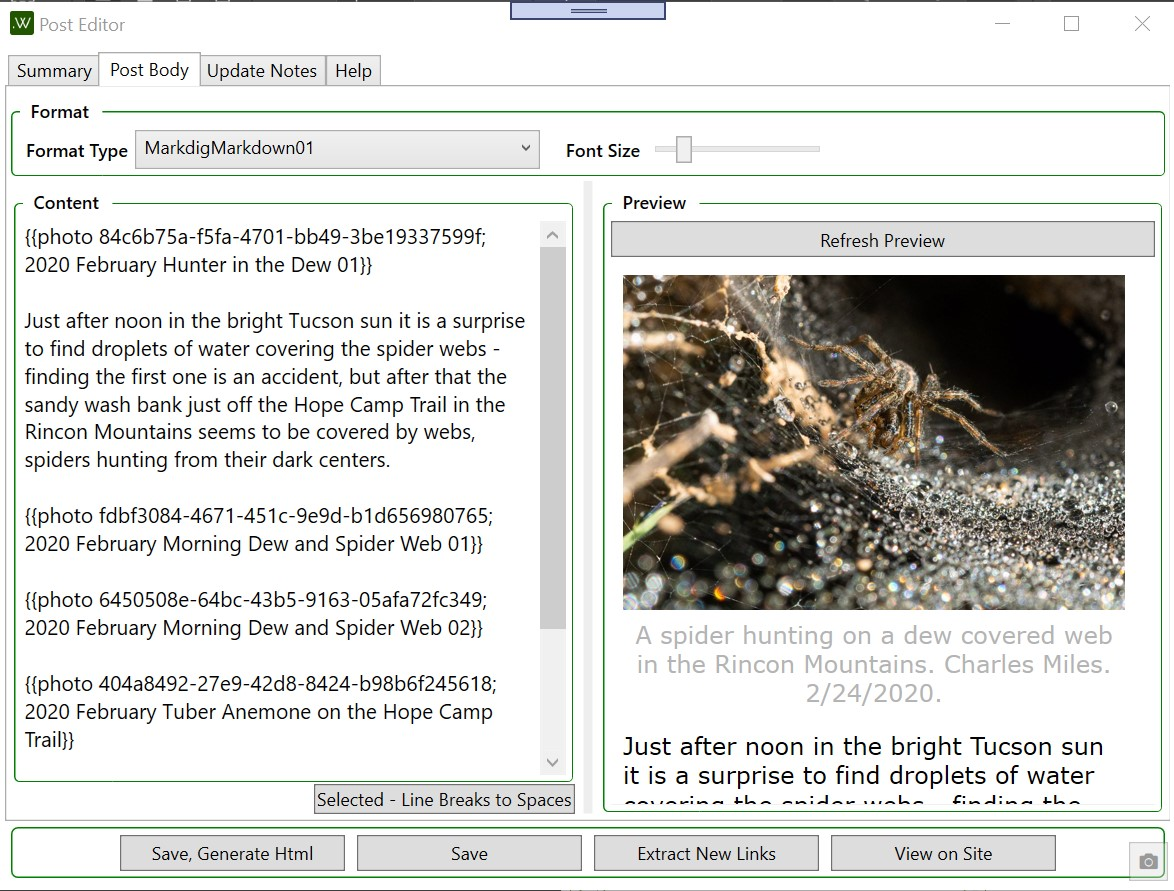
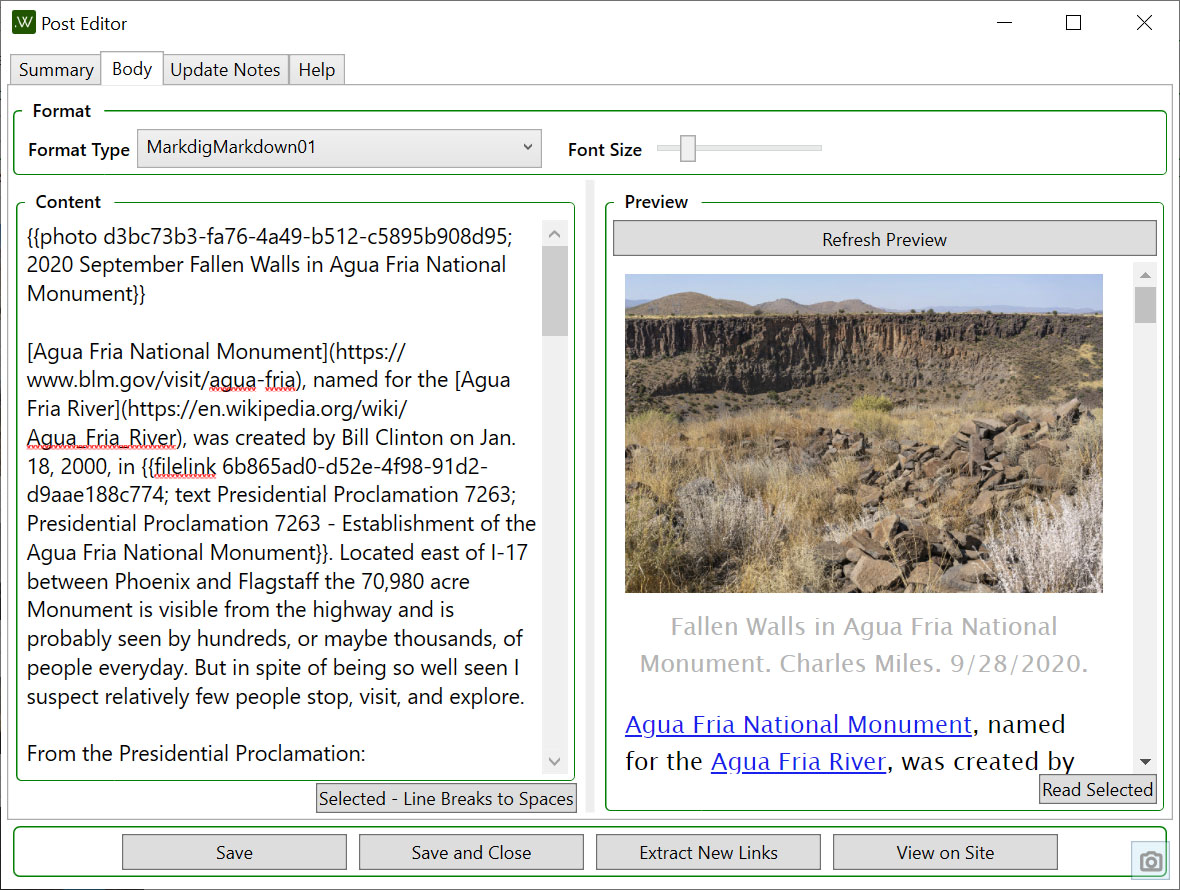
Small GUI Clean Upds. New Screen Shots
FossilOrigin-Name: 72c8be486fbe99721c6463fc9409b4d02a623075257633478d5bc63e2f9bbf93

diff --git a/PointlessWaymarksCmsWpfControls/UserSettingsEditor/UserSettingsEditorControl.xaml b/PointlessWaymarksCmsWpfControls/UserSettingsEditor/UserSettingsEditorControl.xaml
@@ -7,6 +7,7 @@
     xmlns:userSettingsEditor="clr-namespace:PointlessWaymarksCmsWpfControls.UserSettingsEditor"
     xmlns:windowScreenShot="clr-namespace:PointlessWaymarksCmsWpfControls.WindowScreenShot"
     xmlns:wpf="clr-namespace:Markdig.Wpf;assembly=Markdig.Wpf"
+    xmlns:status="clr-namespace:PointlessWaymarksCmsWpfControls.Status"
     d:DataContext="{d:DesignInstance userSettingsEditor:UserSettingsEditorContext}"
     d:DesignHeight="300"
     d:DesignWidth="300"
@@ -161,10 +162,8 @@
                 </StackPanel>
             </StackPanel>
         </ScrollViewer>
-        <windowScreenShot:WindowScreenShotControl
-            Grid.Row="0"
-            Grid.Column="0"
-            HorizontalContentAlignment="Right"
-            VerticalContentAlignment="Bottom" />
+        <status:StatusControl
+            d:IsHidden="true"
+            DataContext="{Binding StatusContext}" />
     </Grid>
 </UserControl>

diff --git a/PointlessWaymarksCmsWpfControls/TagExclusionEditor/TagExclusionEditorControl.xaml b/PointlessWaymarksCmsWpfControls/TagExclusionEditor/TagExclusionEditorControl.xaml
@@ -106,12 +106,6 @@
                     Style="{StaticResource ActionPanelButton}" />
             </WrapPanel>
         </Border>
-        <windowScreenShot:WindowScreenShotControl
-            Grid.Row="0"
-            Grid.RowSpan="3"
-            Grid.Column="0"
-            HorizontalContentAlignment="Right"
-            VerticalContentAlignment="Bottom" />
         <status:StatusControl
             Grid.Row="0"
             Grid.RowSpan="2"

diff --git a/PointlessWaymarksCmsWpfControls/UserSettingsEditor/UserSettingsEditorControl.xaml.cs b/PointlessWaymarksCmsWpfControls/UserSettingsEditor/UserSettingsEditorControl.xaml.cs
@@ -1,5 +1,5 @@
-using System.Diagnostics;
-using System.Windows.Controls;
+using System.Windows.Controls;
+using System.Windows.Input;
 using PointlessWaymarksCmsWpfControls.Utility;
 
 namespace PointlessWaymarksCmsWpfControls.UserSettingsEditor
@@ -11,7 +11,7 @@ namespace PointlessWaymarksCmsWpfControls.UserSettingsEditor
             InitializeComponent();
         }
 
-        private void OpenHyperlink(object sender, System.Windows.Input.ExecutedRoutedEventArgs e)
+        private void OpenHyperlink(object sender, ExecutedRoutedEventArgs e)
         {
             ProcessHelpers.OpenUrlInExternalBrowser(e.Parameter.ToString());
         }
